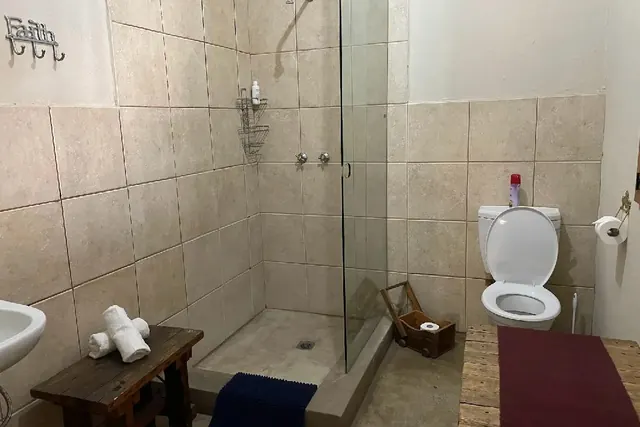
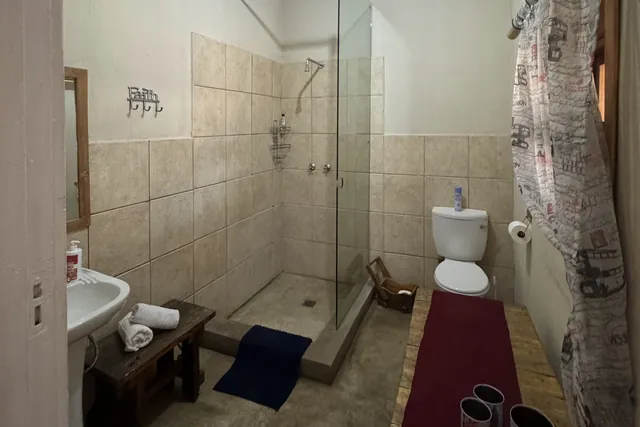
Rooms gallery: sharper photos of the stone-wall and London rooms
Claude-Session: https://claude.ai/code/session_01NMVzBxHxtEkfrSzRTfQMgs

diff --git a/src/pages/rooms.html b/src/pages/rooms.html
@@ -172,13 +172,13 @@
       <p class="section-sub">Every room has its own character: sandstone walls, wooden floors and rustic, characterful furniture. Tap a photo to see it larger.</p>
     </div>
     <div class="gallery">
-      <figure><img src="/assets/img/rooms/room-teal-1-sm.webp" width="640" height="427" alt="Double bed with a turquoise bench beside an exposed sandstone wall" loading="lazy"></figure>
+      <figure><img src="/assets/img/rooms/room-teal-1-sm.webp" width="640" height="427" alt="Double room with an exposed sandstone wall, wooden floors and a turquoise bench" loading="lazy"></figure>
       <figure><img src="/assets/img/rooms/room-green-1-sm.webp" width="640" height="427" alt="Double room with sage-green walls, wooden floors and seascape paintings" loading="lazy"></figure>
-      <figure><img src="/assets/img/rooms/room-london-1-sm.webp" width="640" height="427" alt="London-themed double room with Union Jack linen" loading="lazy"></figure>
+      <figure><img src="/assets/img/rooms/room-london-1-sm.webp" width="640" height="427" alt="London-themed double room with Union Jack linen and wooden floors" loading="lazy"></figure>
       <figure><img src="/assets/img/rooms/room-family-1-sm.webp" width="640" height="427" alt="Double bed with a barn-door headboard against a whitewashed brick wall" loading="lazy"></figure>
       <figure><img src="/assets/img/rooms/room-green-2-sm.webp" width="640" height="427" alt="En-suite bathroom with a glass shower and vintage coat hooks" loading="lazy"></figure>
-      <figure><img src="/assets/img/rooms/room-heart-bath-sm.webp" width="640" height="427" alt="Rustic bathroom with a stone wall, shower and wooden pallet details" loading="lazy"></figure>
-      <figure><img src="/assets/img/rooms/room-london-2-sm.webp" width="640" height="427" alt="Tiled en-suite with glass shower and wooden bench" loading="lazy"></figure>
+      <figure><img src="/assets/img/rooms/room-teal-bath-sm.webp" width="640" height="427" alt="Tiled en-suite with a walk-in shower and turquoise accents" loading="lazy"></figure>
+      <figure><img src="/assets/img/rooms/room-london-2-sm.webp" width="640" height="427" alt="Tiled en-suite with a glass shower in the London room" loading="lazy"></figure>
       <figure><img src="/assets/img/rooms/room-white-bath-sm.webp" width="640" height="427" alt="Bright en-suite with a large glass shower and lace curtains" loading="lazy"></figure>
     </div>
   </div>
